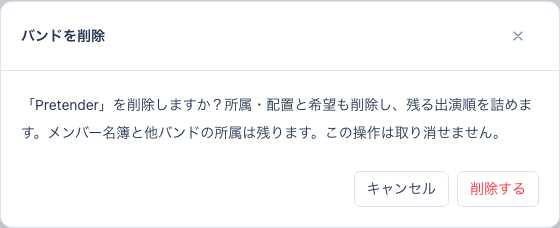
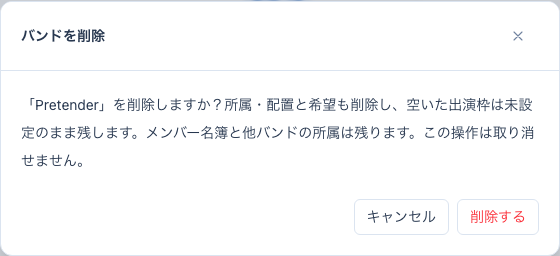
refs #88 バンド削除後の空き枠を保持する

diff --git a/apps/frontend/e2e/band-deletion.e2e.ts b/apps/frontend/e2e/band-deletion.e2e.ts
@@ -2,6 +2,7 @@ import { mkdir } from 'node:fs/promises'
 import path from 'node:path'
 
 import type { FormRoster } from '../src/features/forms/repositories/types'
+import type { SolveResponse } from '../src/shared/api/events'
 import { expect, test } from './database-fixture'
 
 test('confirms or cancels band deletion, retains the roster and persists assigned/unassigned deletions', async ({
@@ -14,6 +15,10 @@ test('confirms or cancels band deletion, retains the roster and persists assigne
   const constraints = (await (
     await request.get(`${url}/constraints`)
   ).json()) as { constraints: unknown[] }
+  type Schedule = NonNullable<SolveResponse['schedule']>
+  const originalSchedule = (await (
+    await request.get(`${url}/schedule`)
+  ).json()) as Schedule
   let deletes = 0
   page.on('request', (r) => {
     if (
@@ -71,7 +76,49 @@ test('confirms or cancels band deletion, retains the roster and persists assigne
       }
     ).constraints,
   ).toEqual(constraints.constraints)
-  await page.reload()
+  const remainingSchedule = (await (
+    await request.get(`${url}/schedule`)
+  ).json()) as Schedule
+  expect(remainingSchedule.placements).toEqual(
+    originalSchedule.placements.filter(
+      (row) => row.bandId !== databaseEvent.bandIds.p2,
+    ),
+  )
+  const resaved = await request.post(`${url}/schedule`, {
+    data: {
+      expectedUpdatedAt: remainingSchedule.updatedAt,
+      parts: remainingSchedule.parts.map(({ partId, partName }) => ({
+        partId,
+        partName,
+      })),
+      placements: remainingSchedule.placements,
+      unassignedBandIds: remainingSchedule.unassignedBandIds,
+    },
+  })
+  expect(resaved.status()).toBe(200)
+  await page.goto(`/event/${databaseEvent.eventId}`)
+  await page.getByRole('button', { name: 'ワークスペースを開く' }).click()
+  const deleted = originalSchedule.placements.find(
+    (row) => row.bandId === databaseEvent.bandIds.p2,
+  )!
+  const partIndex = originalSchedule.parts.findIndex(
+    (part) => part.partId === deleted.partId,
+  )
+  const part = page.getByRole('region', {
+    name: `第${partIndex + 1}部`,
+    exact: true,
+  })
+  await expect(
+    part.locator(':scope > div').nth(deleted.order + 1),
+  ).toContainText('空き枠')
+  for (const placement of remainingSchedule.placements.filter(
+    (row) => row.partId === deleted.partId,
+  ))
+    await expect(
+      part.locator(':scope > div').nth(placement.order + 1),
+    ).toHaveAttribute('data-performance', placement.bandId)
+  await page.goto(`/event/${databaseEvent.eventId}/performances`)
+
   await page.getByRole('button', { name: 'ワークスペースを開く' }).click()
   await expect(button).toHaveCount(0)
   const unassigned = page.getByRole('button', {

diff --git a/apps/backend/test/routes/event-saves.test.ts b/apps/backend/test/routes/event-saves.test.ts
@@ -214,7 +214,7 @@ describe('separate schedule and constraint saves', () => {
     },
   )
 
-  it('rejects missing/duplicate/foreign bands, gaps, duplicate parts and zero parts without writes', async () => {
+  it('rejects missing/duplicate/foreign bands, duplicate positions, duplicate parts and zero parts without writes', async () => {
     const before = await snapshot()
     const body = await input()
     for (const invalid of [
@@ -229,10 +229,24 @@ describe('separate schedule and constraint saves', () => {
       { ...body, unassignedBandIds: ['foreign'] },
       {
         ...body,
-        placements: [{ ...body.placements[0], order: 2 }, body.placements[1]],
+        placements: [
+          body.placements[0],
+          {
+            ...body.placements[1],
+            partId: body.placements[0].partId,
+            order: body.placements[0].order,
+          },
+        ],
       },
       { ...body, parts: [body.parts[0], body.parts[0]] },
       { ...body, parts: [] },
+      {
+        ...body,
+        placements: body.placements.map((row) => ({
+          ...row,
+          order: 1_000_000,
+        })),
+      },
     ]) {
       const response = await request('schedule', invalid)
       expect(response.status).toBe(422)
@@ -327,4 +341,15 @@ describe('separate schedule and constraint saves', () => {
     ).toBe(422)
     expect(await snapshot()).toEqual(before)
   })
+})
+
+it('saves and reloads leading and internal vacancies without compacting placements', async () => {
+  const body = await input()
+  body.placements = body.placements.map((row, index) => ({
+    ...row,
+    order: index * 2 + 1,
+  }))
+  const response = await request('schedule', body)
+  expect(response.status).toBe(200)
+  expect((await snapshot())!.placements).toEqual(body.placements)
 })

diff --git a/apps/backend/src/repositories/bands.ts b/apps/backend/src/repositories/bands.ts
@@ -2,7 +2,7 @@ import { and, eq, exists, sql } from 'drizzle-orm'
 
 import { loadEvent } from '../db/events'
 import type { createDb } from '../db/index'
-import { bandOrder, bands, events } from '../db/schema'
+import { bands, events } from '../db/schema'
 import { BandError } from '../services/bands/errors'
 import type { BandRepository } from '../services/bands/service'
 import { EventError } from '../services/events/errors'
@@ -21,17 +21,6 @@ export function bandsRepository(
         .select({ bandId: bands.bandId })
         .from(bands)
         .where(and(eq(bands.eventId, eventId), eq(bands.bandId, bandId)))
-      const partId = snapshot.placements.find(
-        (row) => row.bandId === bandId,
-      )?.partId
-      const remaining = snapshot.placements
-        .filter((row) => row.partId === partId && row.bandId !== bandId)
-        .toSorted((a, b) => a.order - b.order)
-        .map((row, order) => ({ ...row, order }))
-      const batches = Array.from(
-        { length: Math.ceil(remaining.length / 20) },
-        (_, i) => remaining.slice(i * 20, (i + 1) * 20),
-      )
       try {
         await db.batch([
           // Any changed owner, deletion state, revision or band aborts the entire batch.
@@ -45,12 +34,6 @@ export function bandsRepository(
           db
             .delete(bands)
             .where(and(eq(bands.bandId, bandId), eq(bands.eventId, eventId))),
-          ...(partId
-            ? [
-                db.delete(bandOrder).where(eq(bandOrder.partId, partId)),
-                ...batches.map((rows) => db.insert(bandOrder).values(rows)),
-              ]
-            : []),
         ])
       } catch (error) {
         const current = await loadEvent(db, userId, eventId)

diff --git a/apps/frontend/src/shared/api/events.ts b/apps/frontend/src/shared/api/events.ts
@@ -70,9 +70,9 @@ export function createEventsApi(client: ApiClient) {
             partName: part.name ?? null,
           })),
           placements: event.sections.flatMap((part) =>
-            part.slots
-              .filter((bandId) => bandId !== null)
-              .map((bandId, order) => ({ bandId, partId: part.id, order })),
+            part.slots.flatMap((bandId, order) =>
+              bandId === null ? [] : [{ bandId, partId: part.id, order }],
+            ),
           ),
           unassignedBandIds: event.unassigned,
         },
@@ -216,16 +216,22 @@ export function createEventsApi(client: ApiClient) {
         sections: schedule.parts
           .toSorted((a, b) => a.sortOrder - b.sortOrder)
           .map((part) => {
-            const bands = schedule.placements
-              .filter((placement) => placement.partId === part.partId)
-              .toSorted((a, b) => a.order - b.order)
-              .map((placement) => placement.bandId)
+            const placements = schedule.placements.filter(
+              (placement) => placement.partId === part.partId,
+            )
+
             return {
               id: part.partId,
               name: part.partName,
               slots: Array.from(
-                { length: Math.max(4, bands.length) },
-                (_, index) => bands[index] ?? null,
+                {
+                  length: Math.max(
+                    4,
+                    ...placements.map((row) => row.order + 1),
+                  ),
+                },
+                (_, index) =>
+                  placements.find((row) => row.order === index)?.bandId ?? null,
               ),
             }
           }),

diff --git a/apps/frontend/src/shared/api/events.test.ts b/apps/frontend/src/shared/api/events.test.ts
@@ -164,7 +164,7 @@ describe('events RPC adapter', () => {
           { partId: 'p2', partName: '後半', sortOrder: 1 },
           { partId: 'p1', partName: '前半', sortOrder: 0 },
         ],
-        placements: [{ bandId: 'b1', partId: 'p1', order: 0 }],
+        placements: [{ bandId: 'b1', partId: 'p1', order: 2 }],
         unassignedBandIds: [],
       }),
       json({
@@ -186,7 +186,7 @@ describe('events RPC adapter', () => {
     // Chat history has its own sequence; it does not participate in updatedAt.
     const event = await api.getEvent('event-1')
     expect(event.sections).toEqual([
-      { id: 'p1', name: '前半', slots: ['b1', null, null, null] },
+      { id: 'p1', name: '前半', slots: [null, null, 'b1', null] },
       { id: 'p2', name: '後半', slots: [null, null, null, null] },
     ])
     expect(event.performances[0]).toMatchObject({
@@ -223,7 +223,7 @@ describe('events RPC adapter', () => {
   })
 })
 
-it('saves dense parts and placements with the displayed revision, then constraints with the new revision', async () => {
+it('saves parts and placements without closing vacant slots with the displayed revision, then constraints with the new revision', async () => {
   const savedAt = '2026-10-17T00:00:00.001Z'
   const { api, fetcher } = setup([
     json({ updatedAt: savedAt }),
@@ -253,7 +253,7 @@ it('saves dense parts and placements with the displayed revision, then constrain
     ],
     placements: [
       { bandId: 'b2', partId: 'part-1', order: 0 },
-      { bandId: 'b1', partId: 'part-1', order: 1 },
+      { bandId: 'b1', partId: 'part-1', order: 2 },
     ],
     unassignedBandIds: ['b3'],
   })

diff --git a/apps/backend/test/routes/bands.test.ts b/apps/backend/test/routes/bands.test.ts
@@ -78,7 +78,7 @@ it('deletes an unassigned band, retaining members, other memberships, constraint
   expect(after.constraints).toEqual(before.constraints)
   expect(await db.select().from(chatMessages)).toEqual(messages)
 })
-it('deletes an assigned band and compacts only its part without losing another band', async () => {
+it('deletes an assigned band and leaves a vacant slot and preserves every other placement', async () => {
   await db.insert(bands).values([
     { eventId: seed.event.eventId, bandId: 'a-b3', bandName: 'C' },
     { eventId: seed.event.eventId, bandId: 'a-b4', bandName: 'D' },
@@ -91,7 +91,7 @@ it('deletes an assigned band and compacts only its part without losing another b
   expect((await remove()).status).toBe(200)
   expect((await snapshot())!.placements).toEqual([
     { bandId: 'a-b1', partId: 'a-p1', order: 0 },
-    { bandId: 'a-b3', partId: 'a-p1', order: 1 },
+    { bandId: 'a-b3', partId: 'a-p1', order: 2 },
     { bandId: 'a-b4', partId: 'a-p2', order: 0 },
   ])
 })
@@ -184,7 +184,7 @@ it('rolls back deletion, memberships, order and timestamp on a late D1 failure',
   const before = await snapshot()
   await local.binding
     .prepare(
-      "CREATE TRIGGER fail_reinsert BEFORE INSERT ON band_order BEGIN SELECT RAISE(ABORT, 'test_failure'); END",
+      "CREATE TRIGGER fail_delete AFTER DELETE ON bands BEGIN SELECT RAISE(ABORT, 'test_failure'); END",
     )
     .run()
   expect((await remove()).status).toBe(500)

diff --git a/apps/backend/src/services/scheduling/validation.ts b/apps/backend/src/services/scheduling/validation.ts
@@ -55,14 +55,23 @@ export function validateSchedule(snapshot: Snapshot, input: ScheduleInput) {
     input.placements.some((p) => !partIds.includes(p.partId))
   )
     invalid('/parts', '部IDの重複または不正な配置先があります。')
+  // Bound vacant slots while allowing existing schedules and larger band rosters.
+  const positionCapacity = Math.max(
+    20,
+    bandIds.length,
+    ...snapshot.placements.map((placement) => placement.order + 1),
+  )
+  if (input.placements.some((placement) => placement.order >= positionCapacity))
+    invalid('/placements', '部内のorderが保存可能な枠数を超えています。')
   for (const part of input.parts)
     if (
-      !input.placements
-        .filter((p) => p.partId === part.partId)
-        .toSorted((a, b) => a.order - b.order)
-        .every((p, i) => p.order === i)
+      !unique(
+        input.placements
+          .filter((p) => p.partId === part.partId)
+          .map((p) => String(p.order)),
+      )
     )
-      invalid('/placements', '部内のorderは0から連続で指定してください。')
+      invalid('/placements', '部内のorderは重複なく指定してください。')
   for (const part of snapshot.parts.filter((p) => !partIds.includes(p.partId)))
     if (
       snapshot.constraints.some((row) => {

diff --git a/apps/frontend/src/features/participants/hooks/useParticipants.test.ts b/apps/frontend/src/features/participants/hooks/useParticipants.test.ts
@@ -42,7 +42,7 @@ it('opening and cancelling confirmation never deletes a band', async () => {
   expect(result.current.deleteTarget).toBeNull()
   expect(api.deleteBand).not.toHaveBeenCalled()
 })
-it('commits once, blocks cancellation during sending, updates order and keeps members', async () => {
+it('commits once, blocks cancellation during sending, leaves the deleted slot empty and keeps members', async () => {
   let complete!: (value: {
     eventId: string
     bandId: string
@@ -75,6 +75,12 @@ it('commits once, blocks cancellation during sending, updates order and keeps me
   expect(result.current.deleteTarget).toBeNull()
   expect(result.current.rows.map((row) => row.id)).toEqual(['b', 'c'])
   expect(result.current.rows[0].position?.order).toBe(1)
+  expect(result.current.data?.sections[0].slots).toEqual([
+    null,
+    'b',
+    null,
+    null,
+  ])
   expect(result.current.stats.members).toBe(1)
   expect(result.current.data?.updatedAt).toBe('2026-10-18T00:01:00.000Z')
 })

diff --git a/apps/frontend/src/features/participants/hooks/useParticipants.ts b/apps/frontend/src/features/participants/hooks/useParticipants.ts
@@ -45,18 +45,12 @@ export function useParticipants(eventId: string) {
             unassigned: current.unassigned.filter(
               (id) => id !== deleteTarget.id,
             ),
-            sections: current.sections.map((section) => {
-              const slots = section.slots.filter(
-                (id) => id !== null && id !== deleteTarget.id,
-              )
-              return {
-                ...section,
-                slots: Array.from(
-                  { length: section.slots.length },
-                  (_, i) => slots[i] ?? null,
-                ),
-              }
-            }),
+            sections: current.sections.map((section) => ({
+              ...section,
+              slots: section.slots.map((id) =>
+                id === deleteTarget.id ? null : id,
+              ),
+            })),
           },
       )
       setDeleteTarget(null)

diff --git a/apps/frontend/src/features/participants/pages/ParticipantsPage.tsx b/apps/frontend/src/features/participants/pages/ParticipantsPage.tsx
@@ -174,7 +174,7 @@ export function ParticipantsPage() {
       {controller.deleteTarget && (
         <ConfirmDialog
           title="バンドを削除"
-          message={`「${controller.deleteTarget.name}」を削除しますか？所属・配置と希望も削除し、残る出演順を詰めます。メンバー名簿と他バンドの所属は残ります。この操作は取り消せません。`}
+          message={`「${controller.deleteTarget.name}」を削除しますか？所属・配置と希望も削除し、空いた出演枠は未設定のまま残します。メンバー名簿と他バンドの所属は残ります。この操作は取り消せません。`}
           error={controller.deleteError}
           busy={controller.deleteBusy}
           onCancel={controller.cancelDelete}

diff --git a/apps/backend/test/routes/event-solve.test.ts b/apps/backend/test/routes/event-solve.test.ts
@@ -406,3 +406,19 @@ describe('solve from persisted event data', () => {
     expect(after.placements).toEqual(before.placements)
   })
 })
+
+it('normalizes vacant display slots only in Solver hints', async () => {
+  await local.binding
+    .prepare('UPDATE band_order SET "order" = "order" + 10')
+    .run()
+  const before = (await snapshot())!
+  const send = vi.fn<typeof fetch>().mockResolvedValue(Response.json(solved()))
+  vi.stubGlobal('fetch', send)
+  expect(
+    (await request({ expectedUpdatedAt: before.event.updatedAt })).status,
+  ).toBe(200)
+  const sent = JSON.parse(send.mock.calls[0][1]!.body as string) as {
+    currentPlacements: { order: number }[]
+  }
+  expect(sent.currentPlacements.map((row) => row.order)).toEqual([0, 1])
+})

diff --git a/apps/frontend/src/shared/model/event.ts b/apps/frontend/src/shared/model/event.ts
@@ -99,12 +99,15 @@ export function positionLimit(event: EventData) {
     : event.sections.reduce((sum, section) => sum + section.slots.length, 0)
 }
 
-/** Empty frames are view state; only band order belongs to the schedule API. */
+/** Preserve internal vacancies; trailing empty capacity remains view state. */
 export function scheduleContent(event: EventData) {
   return [
     event.sections.map((section) => ({
       ...section,
-      slots: section.slots.filter((id) => id !== null),
+      slots: section.slots.slice(
+        0,
+        section.slots.findLastIndex((id) => id !== null) + 1,
+      ),
     })),
     event.unassigned,
   ]
